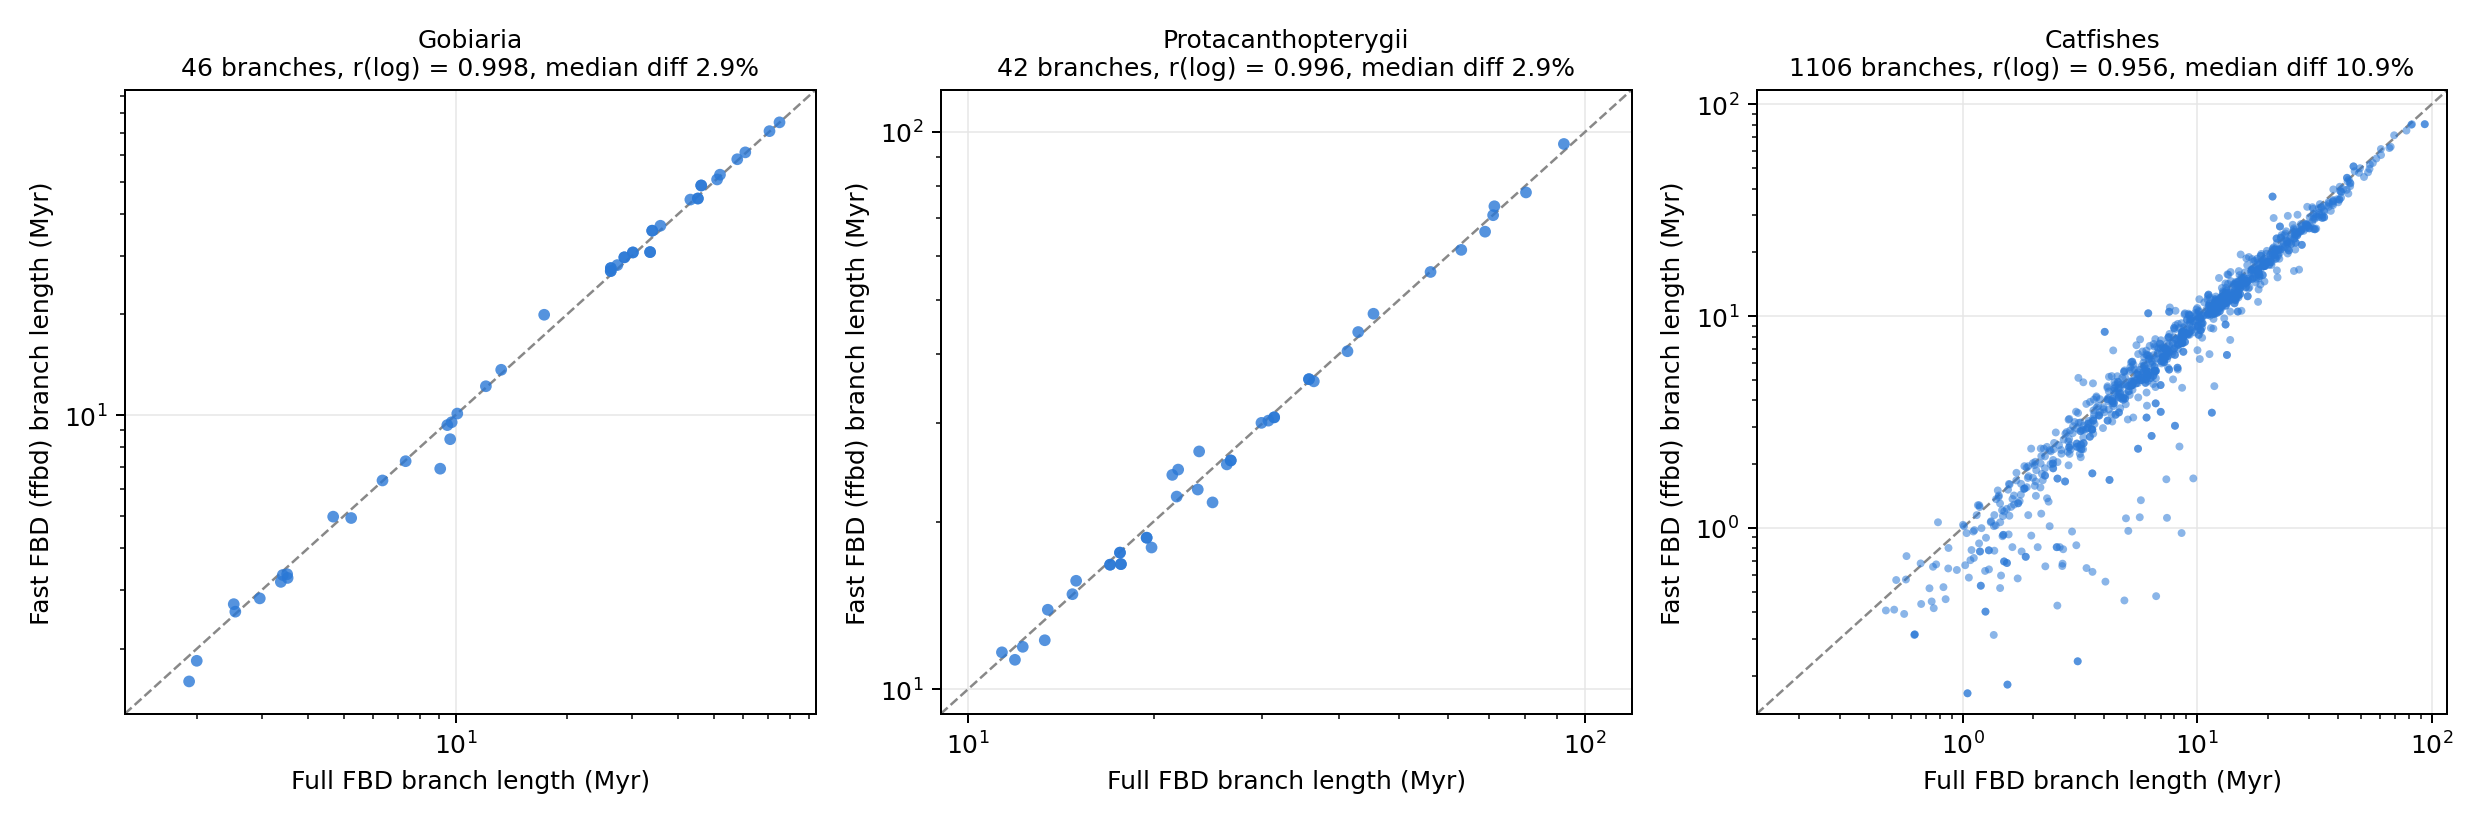
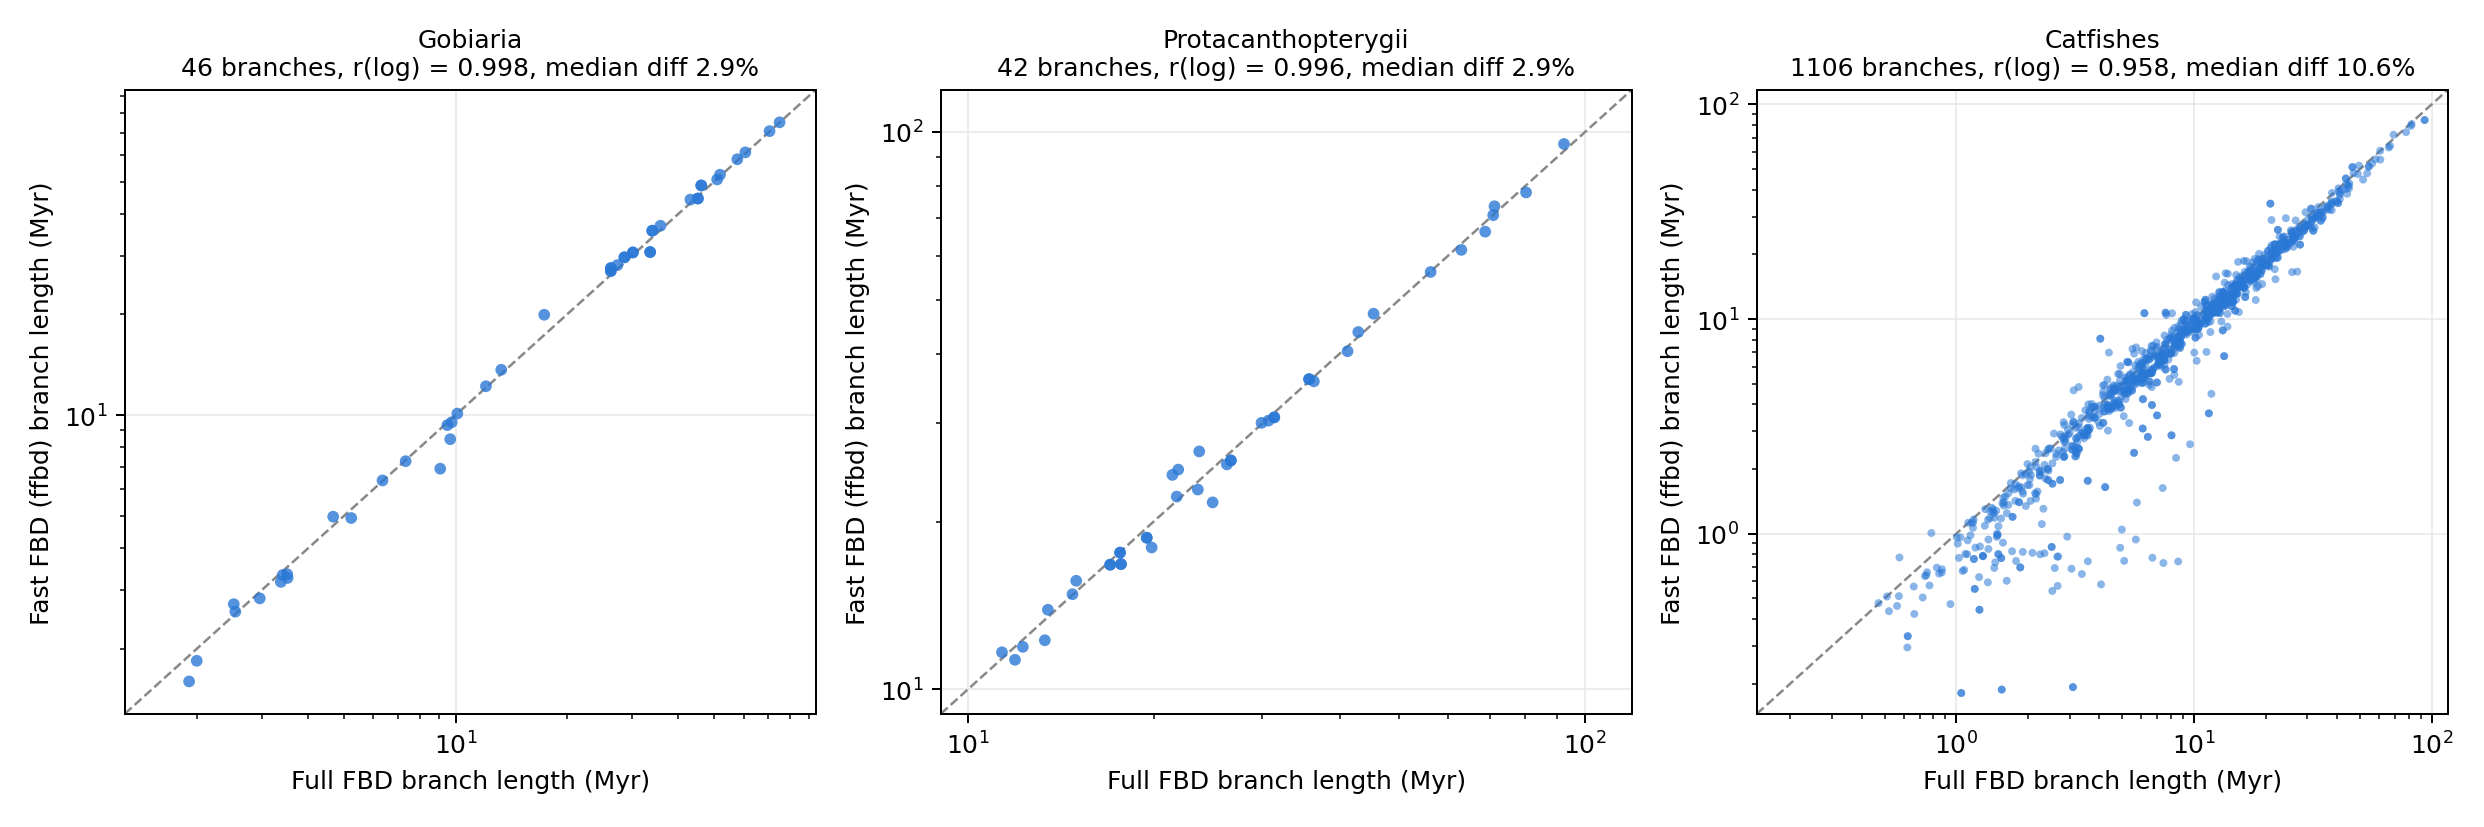
Catfish panel: node ages from all logged samples; note node-age agreement

diff --git a/scripts/branch_scatter.py b/scripts/branch_scatter.py
@@ -28,6 +28,53 @@ def branches(path):
     return out
 
 
+def branches_from_logs(spec):
+    """spec = 'ffbdlog:INPUT.txt:LOG1,LOG2': node ages from the ffbd log files (every logged sample, 10% burn-in per chain),
+    clades from the extant nodes of the ffbd input file. Uses far more samples than the saved trees."""
+    _, inp, logs = spec.split(':', 2)
+    L = open(inp).read().split('\n')
+    i = L.index(next(l for l in L if l.startswith('tips ')))
+    nt = int(L[i].split()[1]); name = {}
+    for l in L[i + 1:i + 1 + nt]:
+        p = l.split(); name[int(p[0])] = (p[1], p[2])
+    j = L.index(next(l for l in L if l.startswith('initial_tree ')))
+    nn = int(L[j].split()[1]); kids = {}
+    for l in L[j + 1:j + 1 + nn]:
+        p = l.split(); v, a, b = int(p[0]), int(p[2]), int(p[3])
+        if a >= 0: kids[v] = (a, b)
+    k = L.index(next(l for l in L if l.startswith('extant_nodes ')))
+    ext = {int(l.split()[0]): l.split()[1] for l in L[k + 1:k + 1 + int(L[k].split()[1])]}
+    tipset = {}
+    def tips(v):
+        if v not in tipset:
+            tipset[v] = frozenset([name[v][0]]) if v not in kids else (tips(kids[v][0]) | tips(kids[v][1]))
+        return tipset[v]
+    ext_tips = {v: frozenset(x for x in tips(v) if name_type[x] == 'E') for v in ext} if False else None
+    etype = {nm: t for nm, t in name.values()}
+    clade = {nm: frozenset(x for x in tips(v) if etype[x] == 'E') for v, nm in ext.items()}
+    vals = {nm: [] for nm in ext.values()}
+    for lf in logs.split(','):
+        rows = [l.rstrip('\n').split('\t') for l in open(lf)]
+        h, rows = rows[0], rows[1:]
+        rows = rows[len(rows) // 10:]
+        for nm in vals:
+            c = h.index('age_' + nm)
+            vals[nm] += [float(r[c]) for r in rows if len(r) == len(h)]
+    age = {clade[nm]: st.median(v) for nm, v in vals.items()}
+    out = {}
+    for cl, a in age.items():  # parent = smallest strictly larger extant clade
+        par = min((c for c in age if cl < c), key=len, default=None)
+        if par is not None:
+            out[(cl, par)] = age[par] - a
+        if True:
+            pass
+    for nm_, t in etype.items():  # terminal branches: tip age 0
+        if t == 'E':
+            s = frozenset([nm_]); par = min((c for c in age if s < c), key=len)
+            out[(s, par)] = age[par]
+    return out
+
+
 args = sys.argv[1:]
 png, tsv, sets = args[0], args[1], [args[i:i + 3] for i in range(2, len(args), 3)]
 fig, axes = plt.subplots(1, len(sets), figsize=(4.6 * len(sets), 4.6))
@@ -35,7 +82,8 @@ axes = axes if len(sets) > 1 else [axes]
 with open(tsv, 'w') as fh:
     fh.write('set\tn_branches\tr_log\tmedian_abs_pct\tshare_within_10pct\tmedian_full_Myr\tmedian_fast_Myr\n')
     for ax, (name, fast, full) in zip(axes, sets):
-        a, b = branches(fast), branches(full)
+        a = branches_from_logs(fast) if fast.startswith('ffbdlog:') else branches(fast)
+        b = branches(full)
         keys = [k for k in a if k in b and a[k] > 1e-3 and b[k] > 1e-3]
         x = [b[k] for k in keys]; y = [a[k] for k in keys]
         lx, ly = [math.log(v) for v in x], [math.log(v) for v in y]

diff --git a/README.md b/README.md
@@ -116,7 +116,7 @@ Full details and result files are in [VALIDATION.md](VALIDATION.md) and `validat
 | Agreement with RevBayes with sampled-ancestor changes switched off | **Passed**: node ages differ by 0.3 to 0.4% (median) |
 | Agreement with RevBayes with sampled-ancestor changes switched on | **Does not match**, apparently because of a RevBayes move; see below |
 | Fast FBD against full-DNA FBD (RevBayes, that move removed), two fish clades | **Passed**: branch lengths in time differ by 2.9% (median), r = 0.998 and 0.996; root ages 75.2 vs 75.1 Ma and 139.0 vs 139.1 Ma |
-| Catfish data set (713 living tips, 94 fossils) against the original full analysis | **Close, not identical**: branch lengths r = 0.956, median difference 10.9%. The original used a lognormal clock and the RevBayes move above, so some difference is expected |
+| Catfish data set (713 living tips, 94 fossils) against the original full analysis | **Close, not identical**: branch lengths r = 0.958, median difference 10.6% (node ages r = 0.994, Fast 1.8 Myr younger on average). The original used a lognormal clock and the RevBayes move above, so some difference is expected |
 | Convergence on large trees (1,185 and 2,424 tips) | **Passed**: after 20 billion proposals, main-parameter ESS 500 to 800; two chains agree on node ages to 0.9% (median) |
 | Crown and stem rules (new) | **Passed**: an exact conditioning test (below); runs without these rules are byte-identical to the previous release |
 

diff --git a/VALIDATION.md b/VALIDATION.md
@@ -82,7 +82,7 @@ RevBayes 1.3.2 full-DNA FBD and `ffbd` Fast FBD on A06 and A12, two chains each,
 
 ## 6. Catfish (close, not identical)
 
-`ffbd` Fast FBD against the original full analysis of the same data: 1,106 branches, r = 0.956 (log scale), median difference 10.9%, 45% within 10%. The original analysis used an uncorrelated lognormal clock in RevBayes with the collapse-expand move, so it is not a like-for-like comparison. The differences are largest on short branches.
+`ffbd` Fast FBD against the original full analysis of the same data: 1,106 branches, r = 0.958 (log scale), median difference 10.6%, 46% within 10%; node ages r = 0.994, Fast 1.8 Myr younger on average. Fast FBD ages come from all logged samples of both chains. The original analysis used an uncorrelated lognormal clock in RevBayes with the collapse-expand move, so it is not a like-for-like comparison. The differences are largest on short branches.
 
 ## 7. Convergence on large trees (passed)
 
